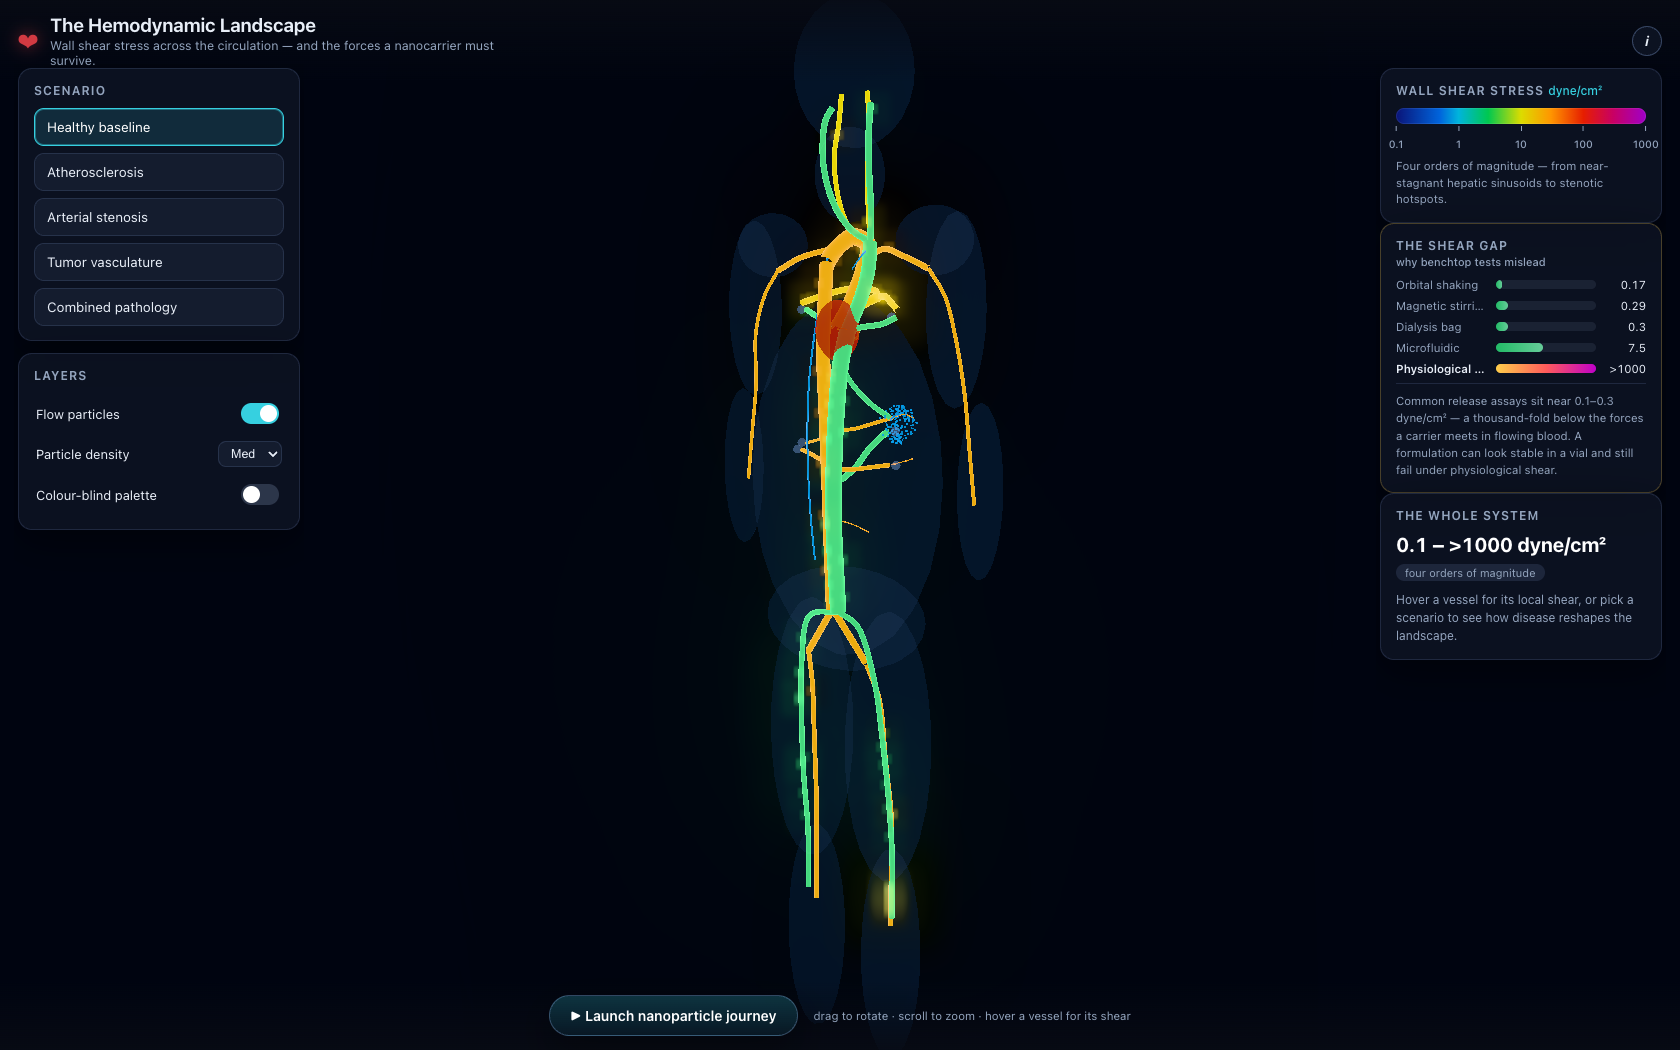
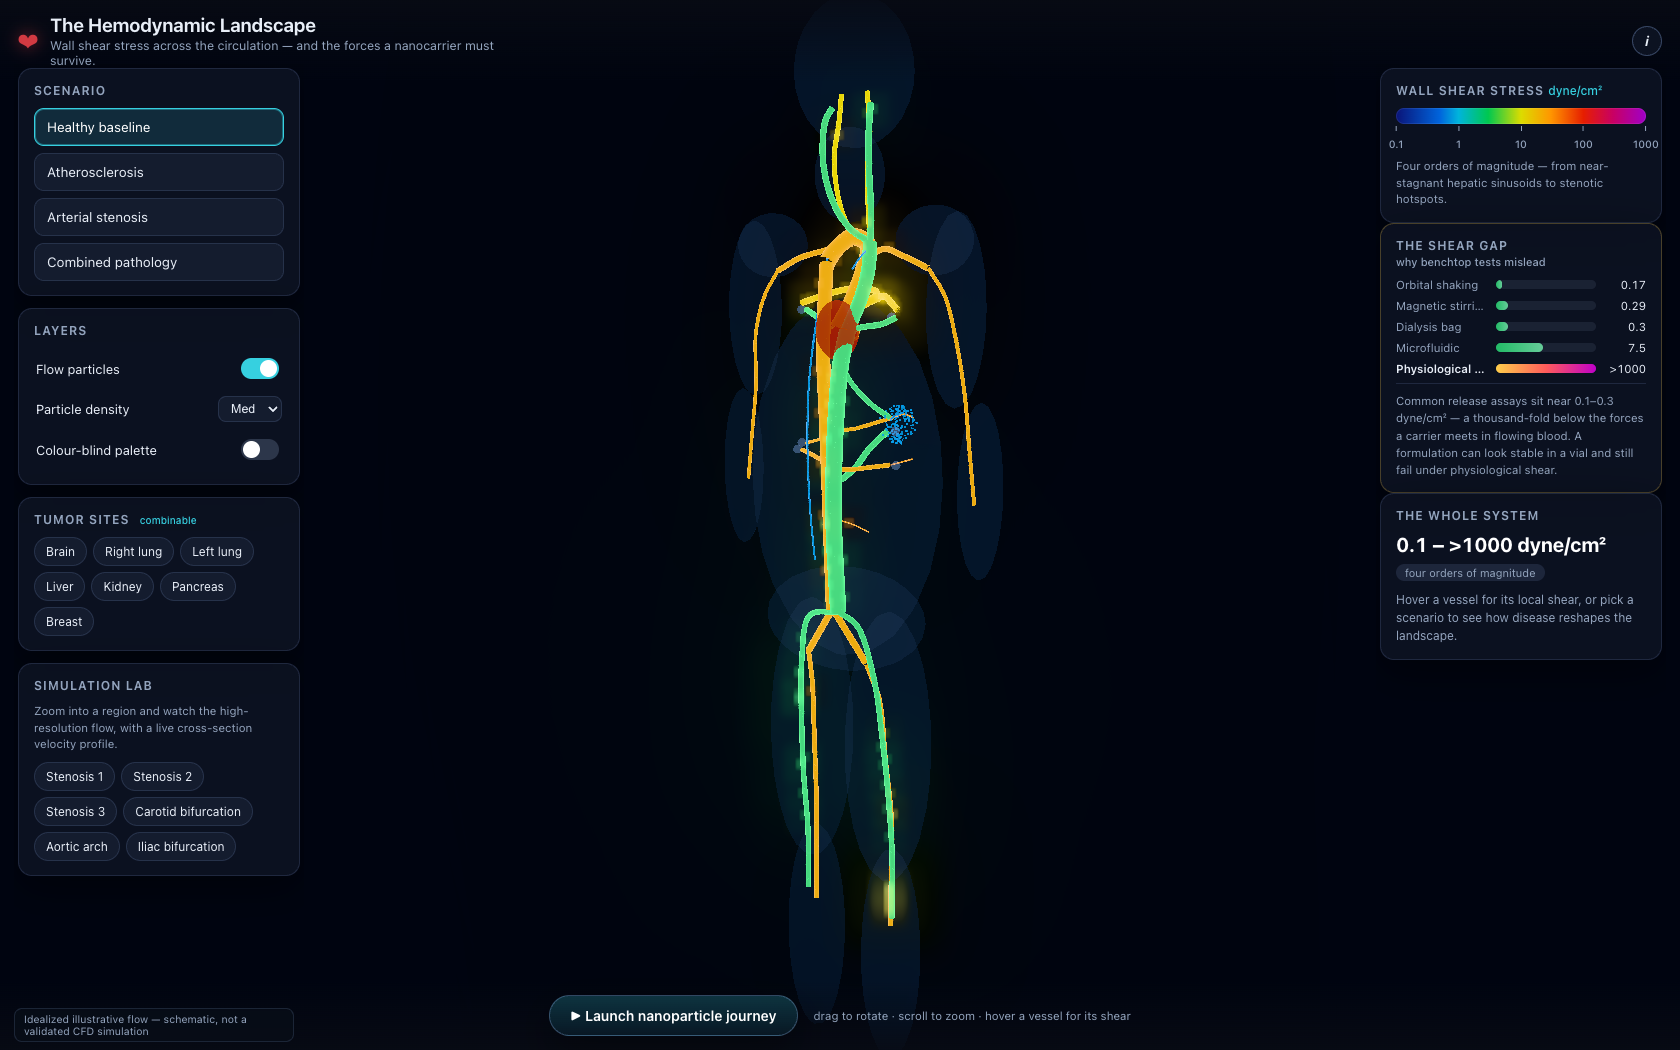
README: document multi-site tumors + high-res simulation; refresh hero/GIF with dense particles

diff --git a/README.md b/README.md
@@ -20,14 +20,19 @@ The vasculature is rendered as glowing, WSS-colored tubes inside a ghosted human
 
 | | |
 |---|---|
-| **🩸 Scenario explorer** | Switch between a healthy baseline and four pathologies — atherosclerosis, arterial stenosis, tumor vasculature, and a combined worst case. Affected vessels re-color, hotspots ignite, and a grounded explanation updates. |
+| **🩸 Scenario explorer** | Switch between a healthy baseline, atherosclerosis, arterial stenosis, and a combined worst case. Affected vessels re-color, hotspots ignite, and a grounded explanation updates. |
+| **🧫 Multi-site tumors** | Toggle tumors on at **seven anatomical sites** (brain, lungs, liver, kidney, pancreas, breast) — combinable, so you can place several at once. Each marks its vasculature as low/oscillatory disturbed flow. |
 | **💊 Nanoparticle journey** | Follow a ~100 nm carrier from injection toward its target while a **carrier-integrity gauge** reacts to the real shear forces at each waypoint — margination in low shear, rising membrane permeability, and **burst rupture at the >1000 dyne/cm² stenosis**. |
-| **✨ Flow particles** | Particles stream along every vessel at speeds and colors set by the local WSS, so the whole system feels alive. Toggle and density controls included. |
+| **✨ High-resolution flow simulation** | Tens of thousands of GPU particles stream along every vessel with a **parabolic velocity profile** (fast core, slow walls) and **shear-driven margination** (carriers drift to the wall in low shear). Adaptive count holds framerate. |
+| **🔬 Simulation lab** | Zoom into any region — a stenosis, a bifurcation, or an active tumor — for a high-resolution local view with a **live cross-section velocity profile** showing the margination skew. |
 | **📊 Quantitative panels** | A log-scale WSS spectrum, live per-vessel readouts, and **"The Shear Gap"** — the chart that shows why benchtop release assays (~0.1–0.3 dyne/cm²) sit a thousand-fold below physiological flow. |
+
+> The particle physics (parabolic profile + shear-driven margination) is physically-motivated and **illustrative — idealized flow, not a validated CFD simulation** (labeled in-app).
 
 A colorblind-safe palette, keyboard navigation, reduced-motion support, and a touch/mobile layout are built in.
 
 ![Scenario: arterial stenosis](media/scenario-stenosis.png)
+![Multi-site tumors](media/tumors.png)
 ![Nanoparticle journey — rupture at the stenosis](media/journey.png)
 
 ---
